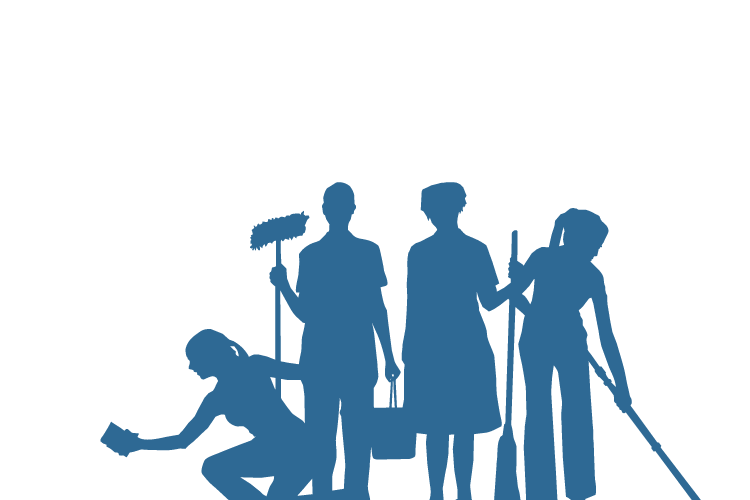
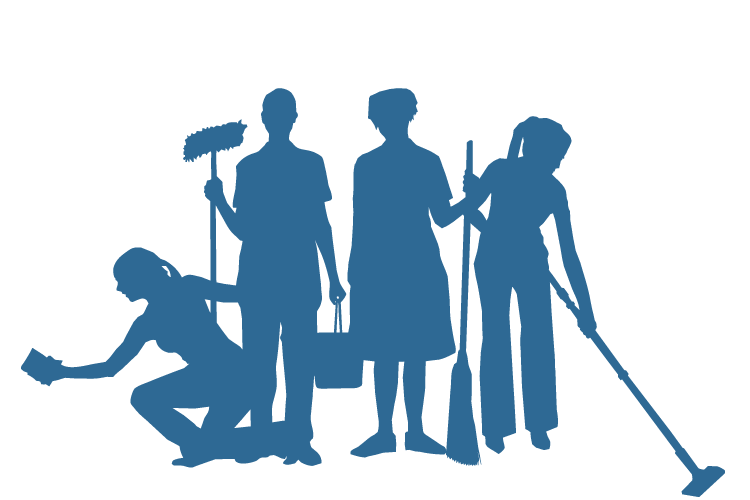
updated about section
changed image size, added img, styled about section.

Changed region(s): [[0.0307, 0.15, 0.9813, 1.0]]

diff --git a/_site/assets/css/main.css b/_site/assets/css/main.css
@@ -557,4 +557,16 @@ header {
   background-position: center;
   background-repeat: no-repeat; }
 
+#about {
+  background-color: #ecf0f1;
+  background-image: url(../img/pattern.png); }
+  #about h3 {
+    color: #2e6792;
+    text-align: center;
+    margin: 50px 20px 30px 20px; }
+  #about p {
+    color: #2e6792;
+    text-align: center;
+    margin: 0 20px 0 20px; }
+
 /*# sourceMappingURL=main.css.map */

diff --git a/assets/css/main.css b/assets/css/main.css
@@ -557,4 +557,16 @@ header {
   background-position: center;
   background-repeat: no-repeat; }
 
+#about {
+  background-color: #ecf0f1;
+  background-image: url(../img/pattern.png); }
+  #about h3 {
+    color: #2e6792;
+    text-align: center;
+    margin: 50px 20px 30px 20px; }
+  #about p {
+    color: #2e6792;
+    text-align: center;
+    margin: 0 20px 0 20px; }
+
 /*# sourceMappingURL=main.css.map */

diff --git a/assets/css/4-pages/_about.sass b/assets/css/4-pages/_about.sass
@@ -1,0 +1,17 @@
+#about
+  background:
+    color: #ecf0f1
+    image: url(../img/pattern.png)
+    
+  h3
+    color: #2e6792
+    text-align: center
+    margin: 50px 20px 30px 20px
+    
+  p
+    color: #2e6792
+    text-align: center
+    margin: 0 20px 0 20px
+
+    
+//.about-img

diff --git a/_site/index.html b/_site/index.html
@@ -31,7 +31,7 @@
 <section id="about"> 
   <div class="flex">   
     <div class="col-2">
-     
+      <img src="assets/img/about-cleaners.png" class="about-img">
     </div>  
     
      <div class="col-2">

diff --git a/_includes/about.html b/_includes/about.html
@@ -1,7 +1,7 @@
 <section id="about"> 
   <div class="flex">   
     <div class="col-2">
-     
+      <img src="assets/img/about-cleaners.png" class="about-img">
     </div>  
     
      <div class="col-2">
